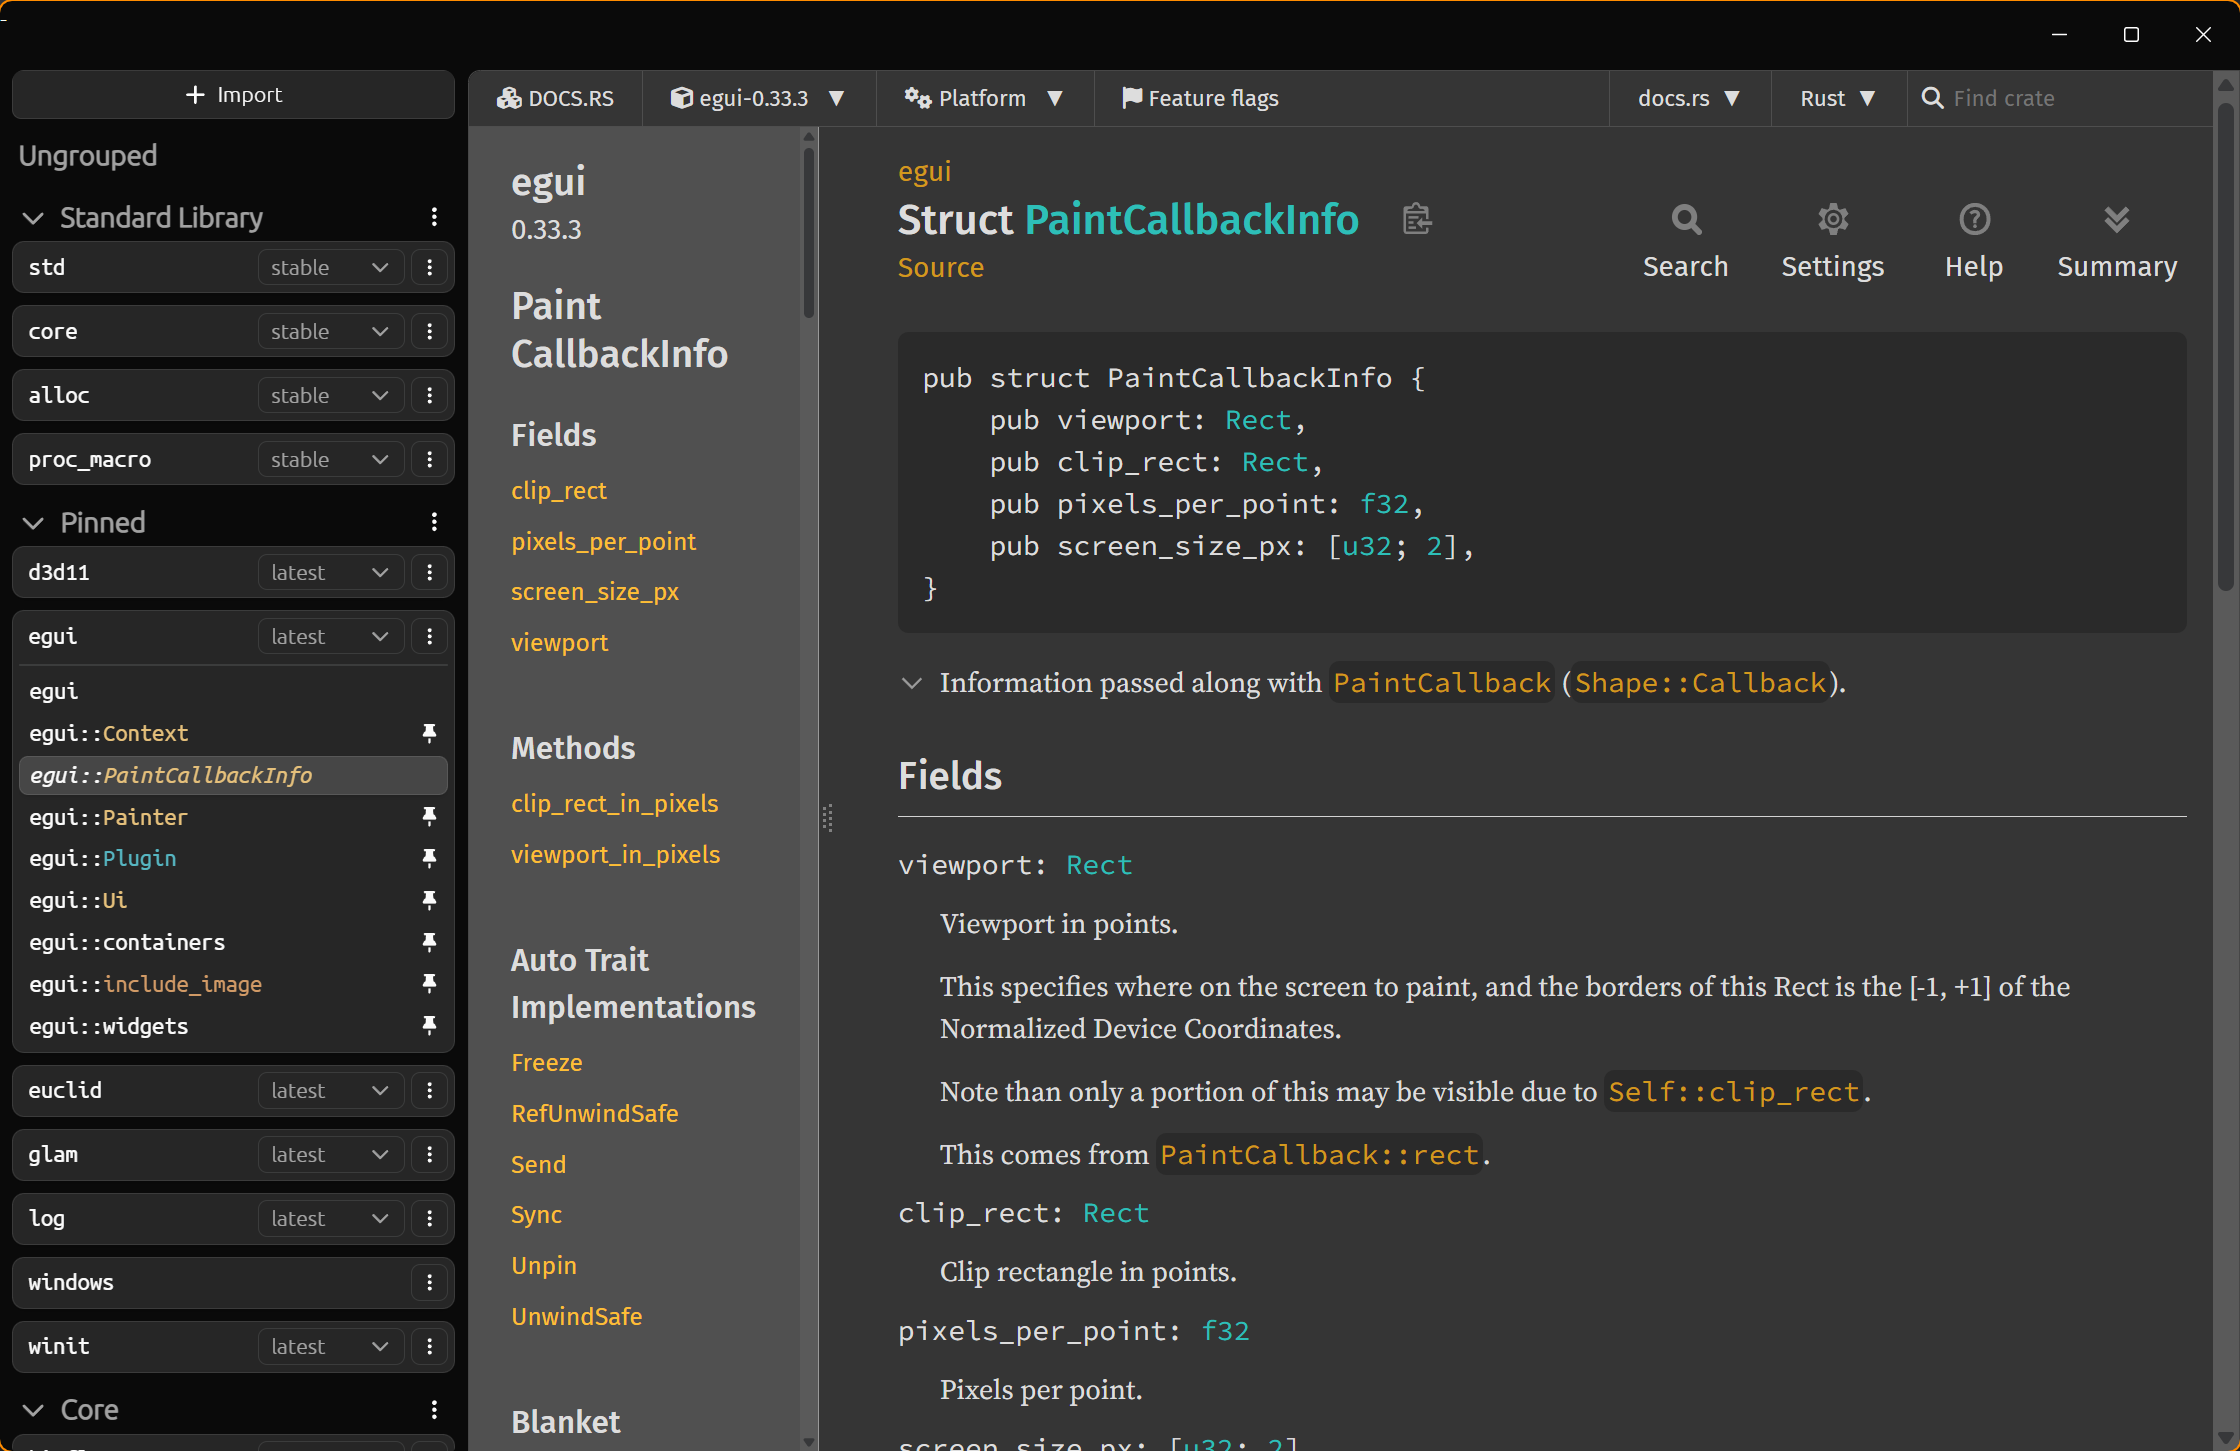
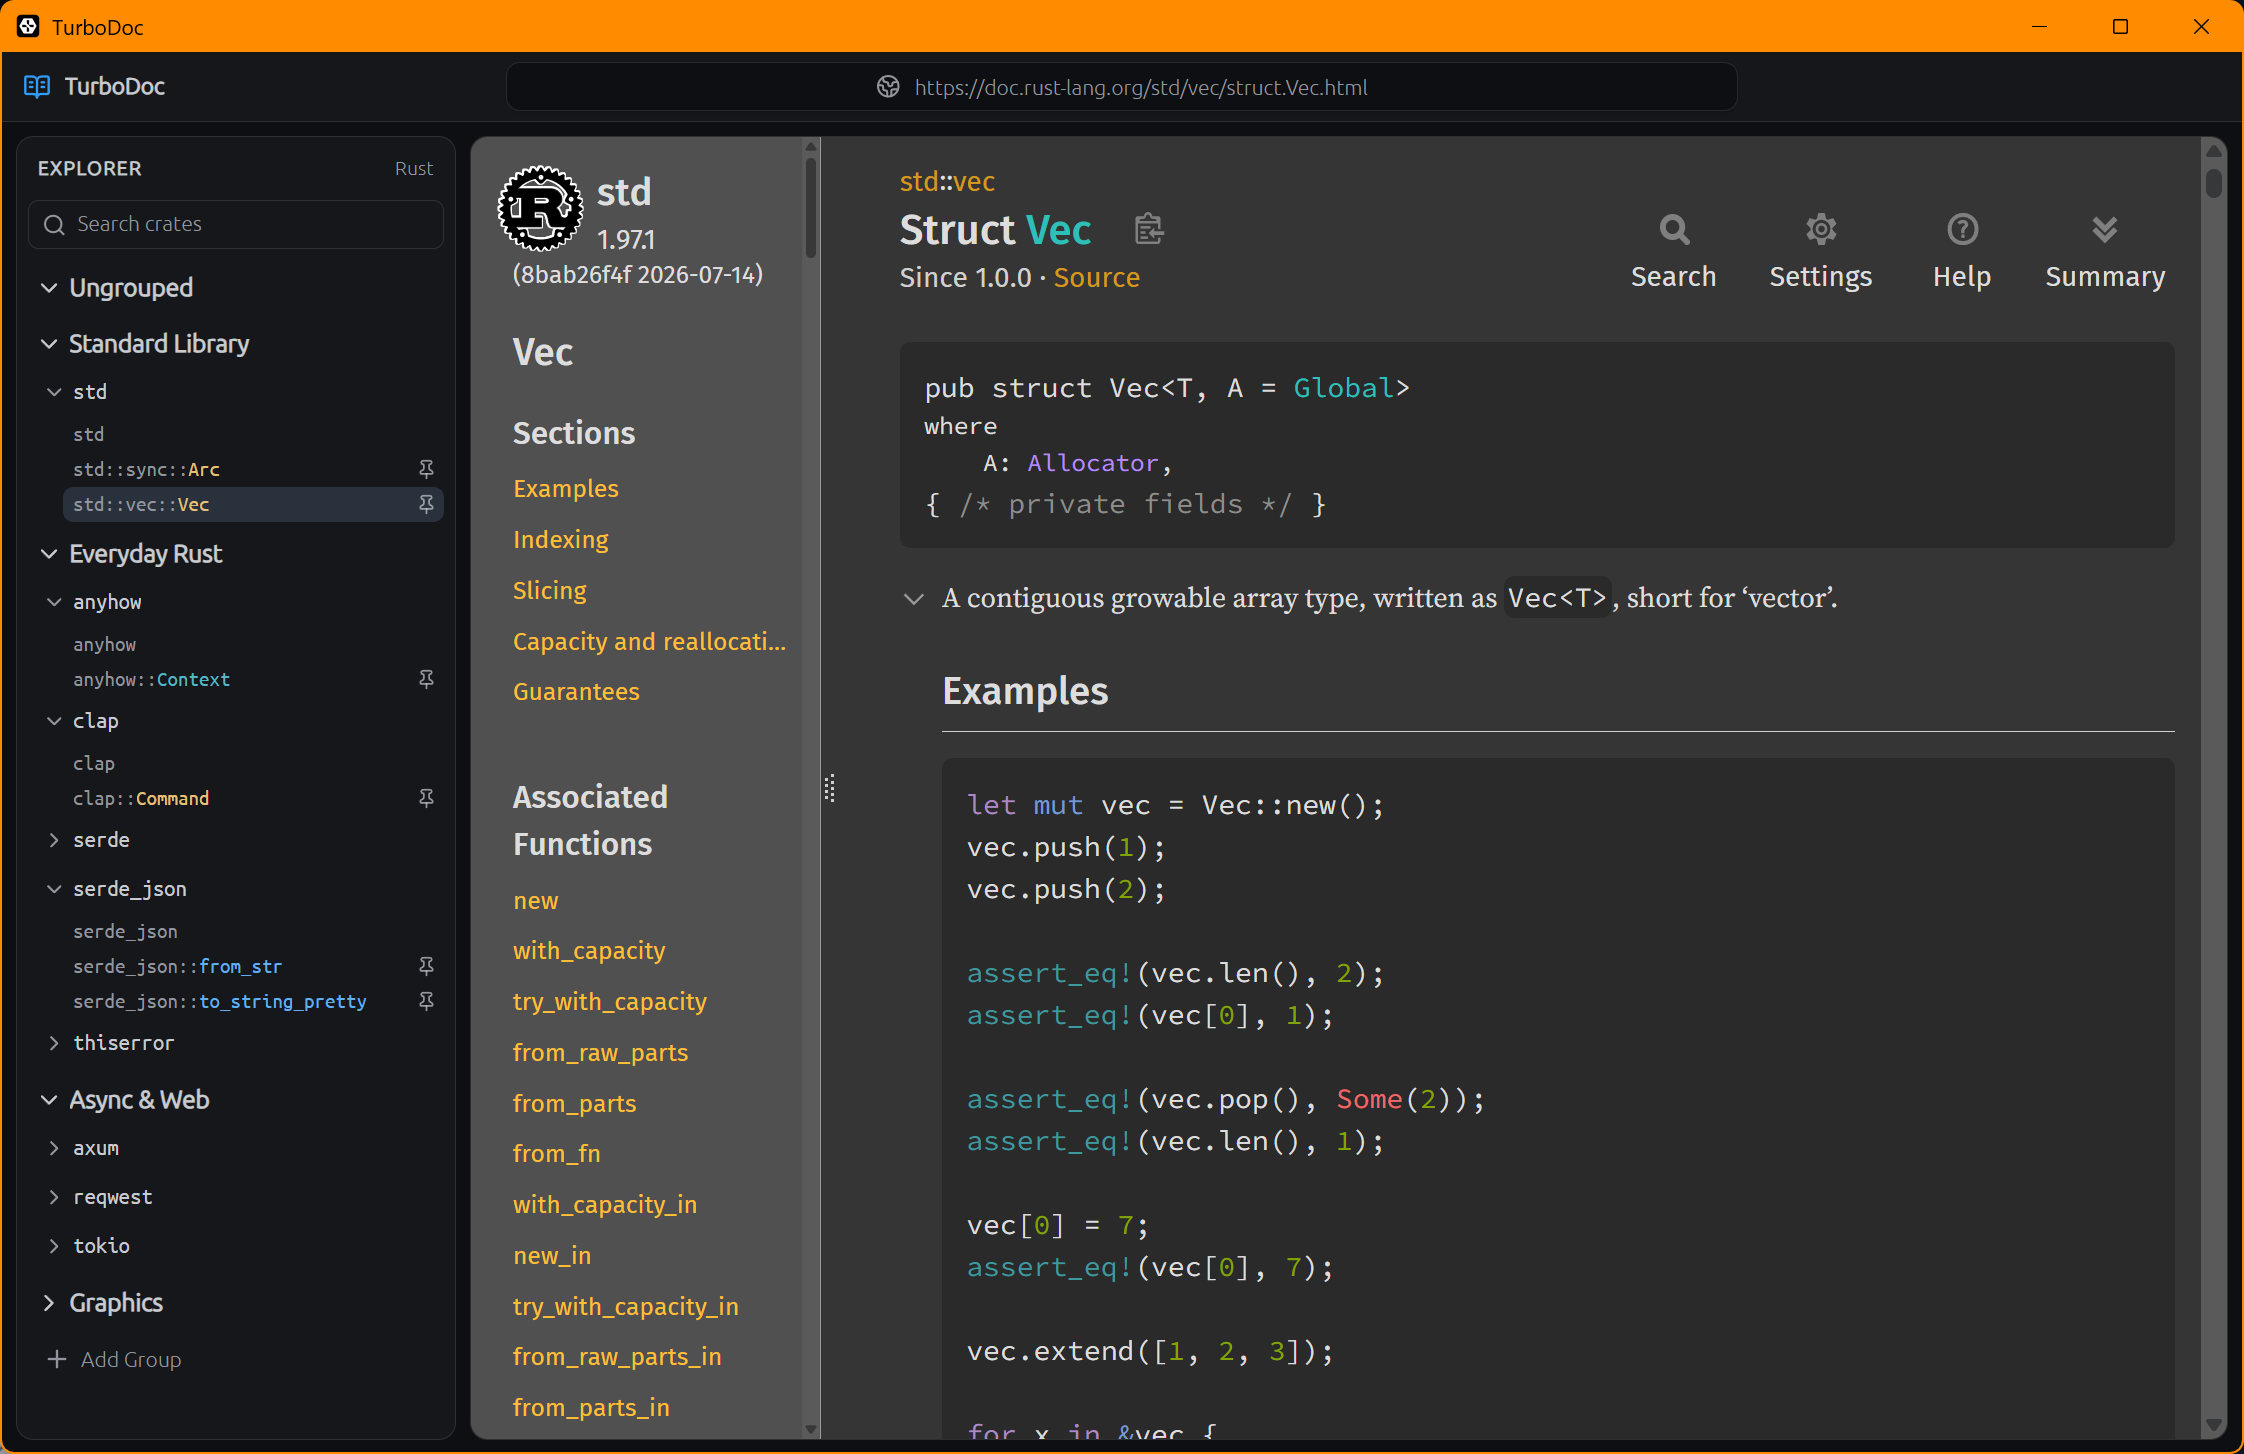
Update public README.md and screenshot

diff --git a/README.md b/README.md
@@ -1,78 +1,85 @@
 # TurboDoc
 
-A local-first documentation viewer for Rust developers.
+A fast, local-first Rust documentation workbench for Windows.
 
-![TurboDoc screenshot](docs/img/screenshot.png)
+![TurboDoc showing Rust documentation in its compact desktop workbench](docs/img/screenshot.png)
 
-## Motivation
+TurboDoc keeps the Rust documentation you use every day in one focused workspace. Search for crates, pin important pages, organize references into groups, and follow cross-crate links without growing another forest of browser tabs. Visited documentation is cached locally and revalidated in the background, keeping repeat navigation quick without freezing the ecosystem at an offline snapshot.
 
-Documentation viewers like Zeal and Dash work well for some languages like C++, but Rust's ecosystem lives on docs.rs — and offline doc bundles can't keep up with rapidly-evolving crates and their cross-linked dependencies. I found myself juggling dozens of browser tabs across docs.rs, the standard library, and crate references, often losing track of focus along the way.
+> [!NOTE]
+> TurboDoc is under active development, currently supports Rust documentation, and is built from source on Windows.
 
-TurboDoc is a dedicated viewer that proxies and caches docs.rs locally, lets you organize crates into named groups, pin pages, and follow cross-crate links seamlessly. Reading documentation is a workspace activity — the tool should help you manage your references, not fight against them.
+## Why TurboDoc?
 
-## Features
+Offline documentation browsers work well when a language ships stable, self-contained docsets. Rust's ecosystem is different: crates evolve quickly on [docs.rs](https://docs.rs/), link freely into the standard library and one another, and are often consulted together while working on a project.
 
-- **Unified Rust docs** — browse docs.rs, doc.rust-lang.org, and windows-docs-rs as a single provider
-- **Local HTTP proxy with SQLite cache** — documentation loads instantly after the first visit; stale-while-revalidate keeps things fresh in the background
-- **Pin/unpin pages** — VS Code-style preview tabs: navigate freely, pin the pages you want to keep
-- **Version selection** — semver-grouped version picker with "latest" tracking that auto-updates
-- **Named groups** — organize crates into collapsible groups with drag-free reordering
-- **Cross-crate navigation** — follow a link to `std::vec::Vec` from a docs.rs page and TurboDoc auto-imports the crate
-- **Symbol parsing** — module paths and type names colored
-- **Dark mode injection** — rustdoc pages served in dark mode at the proxy level, no flicker
-- **Extensible provider architecture** — adding a new documentation source (C++, Python, etc.) means implementing a single `Provider` interface
+TurboDoc treats documentation as a workspace rather than a collection of disconnected tabs. It combines live upstream docs with a persistent explorer and an HTTP-aware local cache, so references stay organized while their content stays current.
+
+## Highlights
+
+- **Focused desktop workbench** — a compact, VS Code-inspired interface with a native Windows title bar, resizable explorer, and dedicated document pane
+- **Unified Rust documentation** — browse docs.rs, doc.rust-lang.org, and windows-docs-rs through one provider
+- **Fast crate access** — search crates from the pinned explorer combobox or import docs.rs URLs in bulk
+- **Persistent organization** — arrange crates into collapsible named groups and keep versions, pinned pages, and expansion state across sessions
+- **Preview and pin workflow** — navigate freely through one transient preview page per crate, then pin the references worth keeping
+- **Navigation-aware explorer** — cross-crate links are recognized automatically and the matching crate and page are revealed in the sidebar
+- **Version selection** — load recommended releases on demand and switch through semver-grouped versions, including `latest`
+- **Local HTTP cache** — SQLite-backed caching follows upstream freshness rules, serves stale content immediately while revalidating, and evicts old entries with an LRU policy
+- **Consistent dark rendering** — rustdoc dark mode is injected as pages are served, avoiding a bright flash during navigation
+- **Extensible provider model** — the frontend renders a common view model, keeping future documentation sources isolated behind provider implementations
 
 ## Getting Started
 
-> **Windows only** — TurboDoc uses WebView2, which requires Windows 10/11.
+TurboDoc currently targets Windows 10/11 and uses the Microsoft Edge WebView2 Runtime.
 
 ### Prerequisites
 
-- [Rust toolchain](https://rustup.rs/) (for the host + in-process server)
-- [Bun](https://bun.sh/) (for the frontend build / dev server)
-- [just](https://github.com/casey/just) (task runner)
+- A current [Rust toolchain](https://rustup.rs/) using the Windows MSVC target
+- [Bun](https://bun.sh/)
+- [just](https://github.com/casey/just)
+- [Nushell](https://www.nushell.sh/), used by the `just` recipes
+- [WebView2 Runtime](https://developer.microsoft.com/microsoft-edge/webview2/), normally included with current Windows installations
 
-### Build & Run
+### Build and Run
 
 ```sh
-just install   # Install frontend dependencies + build the host
-just run       # Run TurboDoc in dev mode (Vite HMR enabled)
+# Install the frontend dependencies and vendored shadcn-svelte components.
+just install
+
+# Build an optimized Rust host and run with repository-local data.
+just run --data data --port 5173
 ```
 
-### Tech Stack
-
-| Layer | Technologies |
-|-------|-------------|
-| **Host + Server** | Rust · winit · webview2-com · WebView2 · axum · rusqlite · reqwest · http-cache-semantics |
-| **Frontend** | Svelte 5 · Vite · Tailwind CSS v4 · shadcn-svelte (Bits UI) |
-| **Tooling** | just (task runner) · Biome (linter) |
+The directory passed to `--data` stores the workspace files and HTTP cache. `--port` is used by the Vite frontend process; both options also accept the `TURBODOC_DATA` and `TURBODOC_PORT` environment variables.
 
 ## Architecture
 
-TurboDoc is a two-process desktop application — one Rust binary plus (in dev mode) a Vite child process for HMR:
+The desktop shell and backend live in one Rust process. During development, that process owns a Vite child process for frontend assets and hot-module replacement. There is no loopback HTTP server for documentation or application data: WebView2 requests are intercepted and dispatched directly to the in-process backend.
 
-```
-┌──────────────────────────────────────────────────────────────┐
-│  Rust binary                                                 │
-│  ├─ WebView2 host (winit window, navigation interception)    │
-│  └─ axum server task (REST + /proxy + frontend serving)      │
-├──────────────────────────────────────────────────────────────┤
-│  Frontend (Svelte 5 + Vite)                                  │
-│  Explorer sidebar, iframe documentation viewer               │
-└──────────────────────────────────────────────────────────────┘
+```text
+WebView2
+├─ docs.rs / Rust standard library / windows-docs-rs
+│  └─ WebResourceRequested → Server::fetch
+│       └─ SQLite cache ↔ upstream documentation
+├─ /api/v1/*
+│  └─ WebResourceRequested → Server::dispatch_api
+│       └─ TOML workspace data
+└─ Frontend assets and HMR
+   └─ Vite child process
 ```
 
-The Rust binary hosts both the WebView2 window and the axum server (running on a tokio worker thread). When the WebView2 iframe navigates to a documentation URL, the host intercepts the request and forwards it over loopback to the server's `/proxy` endpoint. The server checks its SQLite cache (RFC 7234 freshness via `http-cache-semantics`, LRU eviction) and either serves the cached response or fetches upstream:
+The proxy cache applies upstream cache directives, conditional revalidation, stale-while-revalidate, and LRU eviction before returning responses directly to WebView2. The Svelte frontend remains unaware of that routing and uses ordinary navigation and `fetch` calls.
 
-```
-iframe navigates to https://docs.rs/serde/latest/serde/
-  → Host intercepts, forwards to Server /proxy?url=...
-    → Cache HIT:  serve cached + dark mode injection
-    → Cache MISS: fetch upstream, cache, serve
-  → Host fires "navigated" event to Frontend
-    → Frontend auto-detects crate, updates sidebar state
-```
+| Layer | Technologies |
+|---|---|
+| **Desktop shell** | Rust · eframe/egui · wgpu/DX12 · winit · WebView2 |
+| **In-process backend** | Tokio · reqwest · rusqlite · http-cache-semantics |
+| **Frontend** | Svelte 5 · Vite 8 · Tailwind CSS 4 · shadcn-svelte/Bits UI · Paneforge |
+| **Tooling** | Bun · just · Nushell · Biome |
+
+See [the architecture and implementation notes](docs/README.md) for the provider model, request flow, persistence, and frontend structure.
 
 ## License
 
 [GPL-3.0](LICENSE)
+
